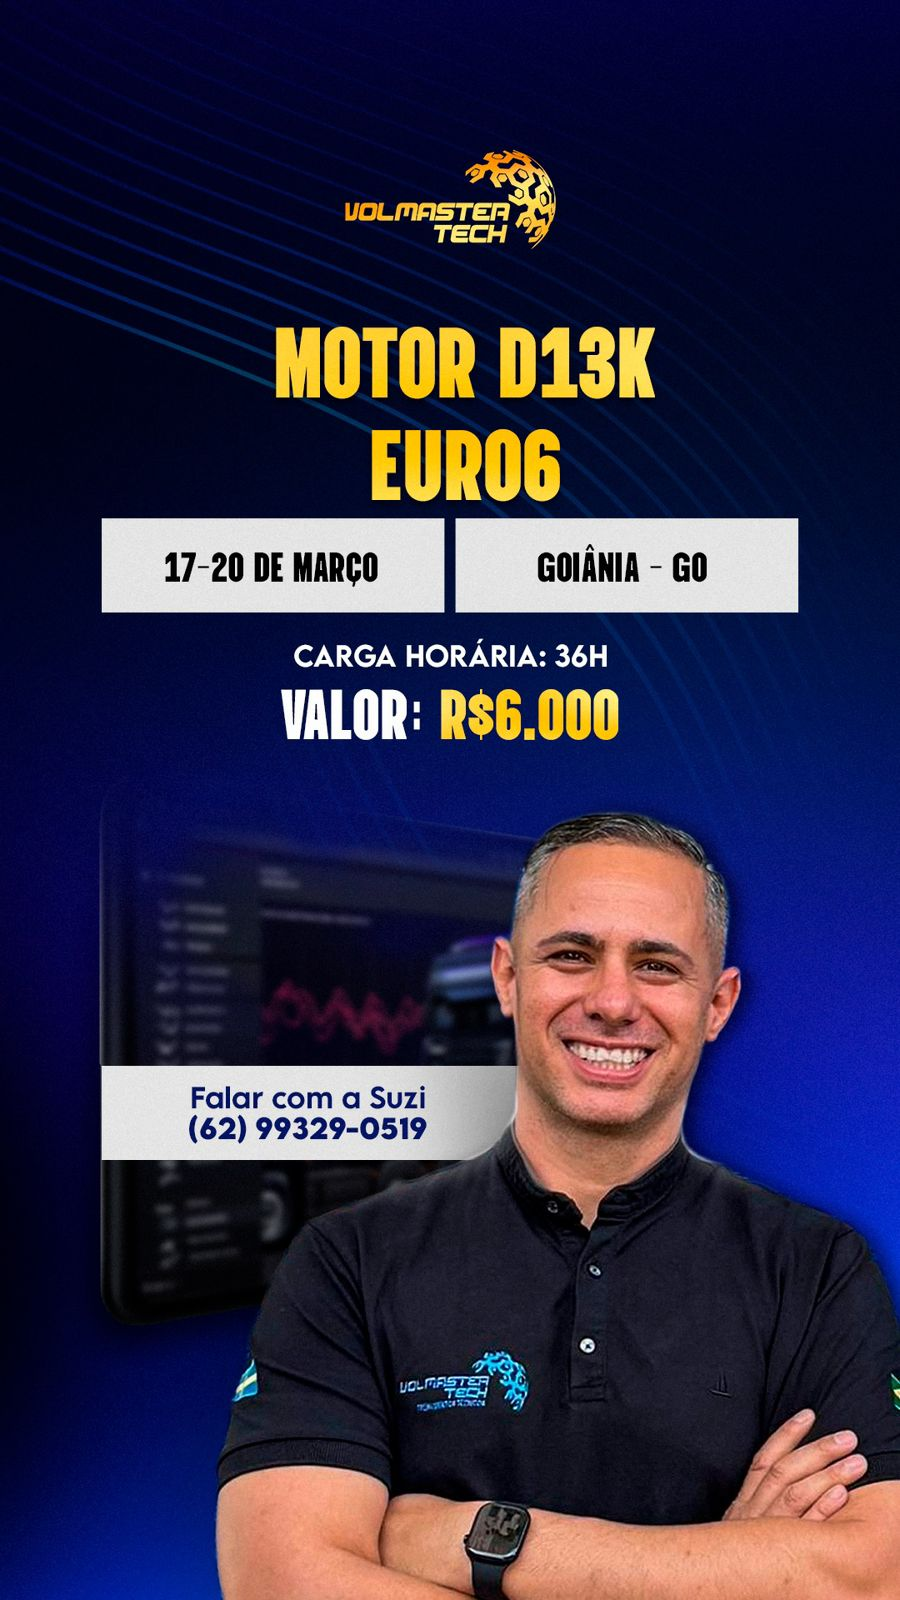
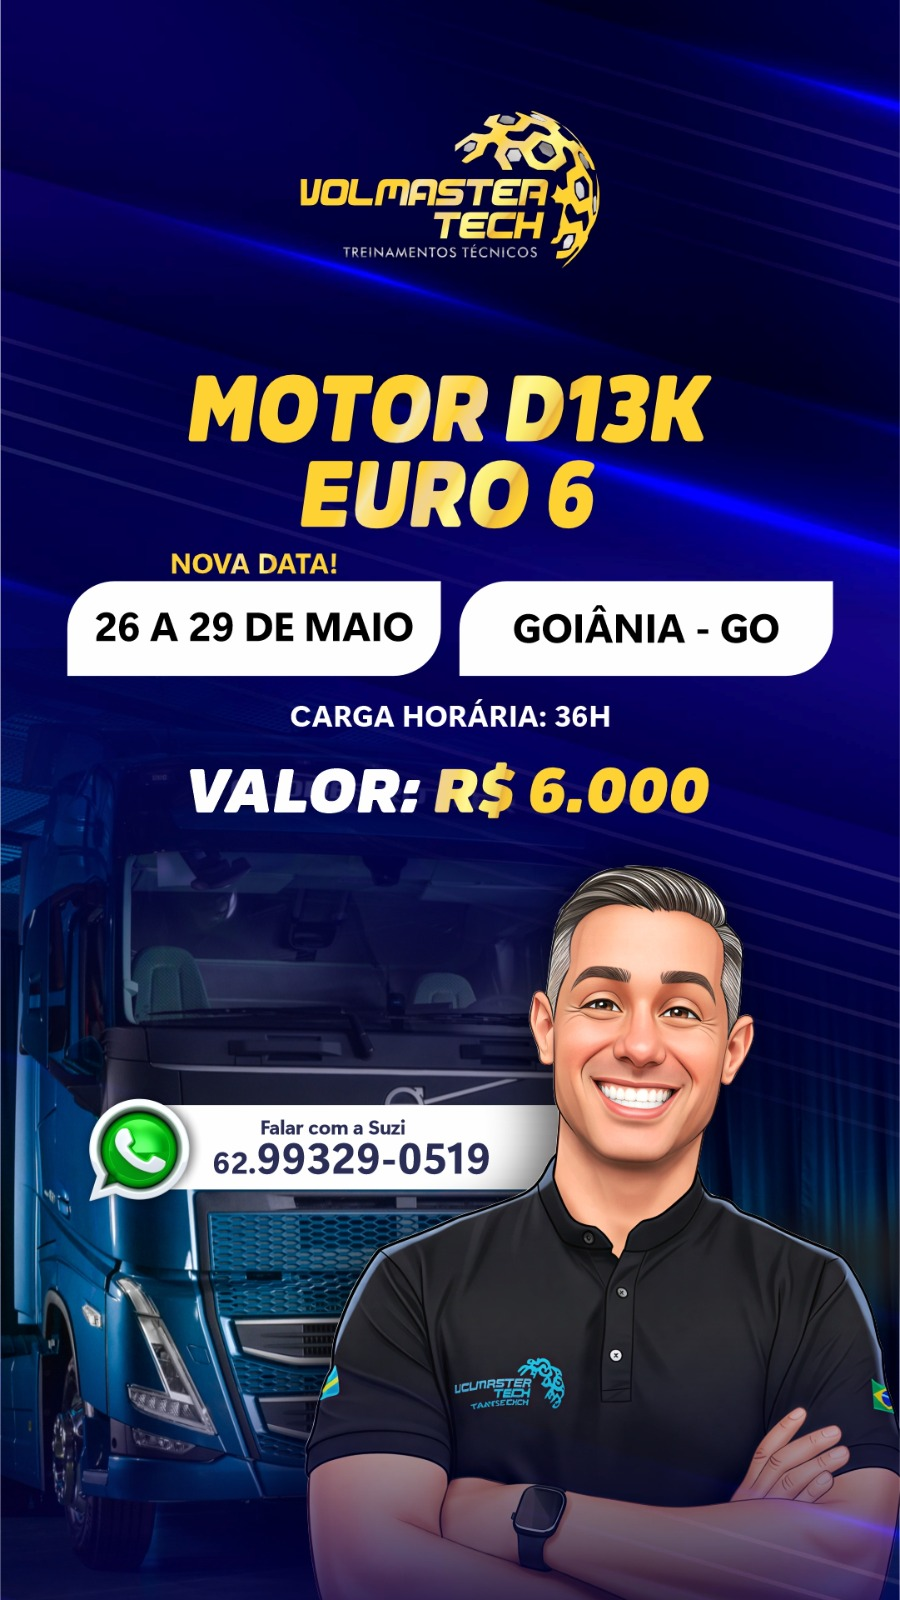
Atualizar data do Motor D13K EURO 6 para 26 a 29 de Maio

diff --git a/produtos.html b/produtos.html
@@ -24,6 +24,23 @@
                 <li><a href="contatos.html">Contatos</a></li>
             </ul>
         </nav>
+        <div class="social-links">
+            <a href="https://www.youtube.com/@volmastertechtreinamentote8457" target="_blank" rel="noopener noreferrer" aria-label="YouTube" class="social-icon">
+                <svg width="24" height="24" viewBox="0 0 24 24" fill="currentColor" xmlns="http://www.w3.org/2000/svg">
+                    <path d="M23.498 6.186a3.016 3.016 0 0 0-2.122-2.136C19.505 3.545 12 3.545 12 3.545s-7.505 0-9.377.505A3.017 3.017 0 0 0 .502 6.186C0 8.07 0 12 0 12s0 3.93.502 5.814a3.016 3.016 0 0 0 2.122 2.136c1.871.505 9.376.505 9.376.505s7.505 0 9.377-.505a3.015 3.015 0 0 0 2.122-2.136C24 15.93 24 12 24 12s0-3.93-.502-5.814zM9.545 15.568V8.432L15.818 12l-6.273 3.568z"/>
+                </svg>
+            </a>
+            <a href="https://www.instagram.com/volmastertech/" target="_blank" rel="noopener noreferrer" aria-label="Instagram" class="social-icon">
+                <svg width="24" height="24" viewBox="0 0 24 24" fill="currentColor" xmlns="http://www.w3.org/2000/svg">
+                    <path d="M12 2.163c3.204 0 3.584.012 4.85.07 3.252.148 4.771 1.691 4.919 4.919.058 1.265.069 1.645.069 4.849 0 3.205-.012 3.584-.069 4.849-.149 3.225-1.664 4.771-4.919 4.919-1.266.058-1.644.07-4.85.07-3.204 0-3.584-.012-4.849-.07-3.26-.149-4.771-1.699-4.919-4.92-.058-1.265-.07-1.644-.07-4.849 0-3.204.013-3.583.07-4.849.149-3.227 1.664-4.771 4.919-4.919 1.266-.057 1.645-.069 4.849-.069zM12 0C8.741 0 8.333.014 7.053.072 2.695.272.273 2.69.073 7.052.014 8.333 0 8.741 0 12c0 3.259.014 3.668.072 4.948.2 4.358 2.618 6.78 6.98 6.98C8.333 23.986 8.741 24 12 24c3.259 0 3.668-.014 4.948-.072 4.354-.2 6.782-2.618 6.979-6.98.059-1.28.073-1.689.073-4.948 0-3.259-.014-3.667-.072-4.947-.196-4.354-2.617-6.78-6.979-6.98C15.668.014 15.259 0 12 0zm0 5.838a6.162 6.162 0 1 0 0 12.324 6.162 6.162 0 0 0 0-12.324zM12 16a4 4 0 1 1 0-8 4 4 0 0 1 0 8zm6.406-11.845a1.44 1.44 0 1 0 0 2.881 1.44 1.44 0 0 0 0-2.881z"/>
+                </svg>
+            </a>
+            <a href="https://www.facebook.com/volmastertech/?locale=pt_BR" target="_blank" rel="noopener noreferrer" aria-label="Facebook" class="social-icon">
+                <svg width="24" height="24" viewBox="0 0 24 24" fill="currentColor" xmlns="http://www.w3.org/2000/svg">
+                    <path d="M24 12.073c0-6.627-5.373-12-12-12s-12 5.373-12 12c0 5.99 4.388 10.954 10.125 11.854v-8.385H7.078v-3.47h3.047V9.43c0-3.007 1.792-4.669 4.533-4.669 1.312 0 2.686.235 2.686.235v2.953H15.83c-1.491 0-1.956.925-1.956 1.874v2.25h3.328l-.532 3.47h-2.796v8.385C19.612 23.027 24 18.062 24 12.073z"/>
+                </svg>
+            </a>
+        </div>
     </header>
 
     <main class="products-container">
@@ -54,7 +71,7 @@
                     <img src="./volmaster/MOTOR D13K EURO 6.jpeg" alt="Motor D13K EURO 6">
                 </div>
                 <div class="product-card-content">
-                    <h3>Motor D13K EURO 6 - 17 a 20 de Março</h3>
+                    <h3>Motor D13K EURO 6 - 26 a 29 de Maio</h3>
                     <p>Motor de alta performance com tecnologia EURO 6.</p>
                     <a href="https://wa.me/556293290519?text=Ol%C3%A1%20Suziane%2C%20tenho%20interesse%20no%20produto%3A%20MOTOR%20D13K%20EURO%206.%20Voc%C3%AA%20pode%20me%20passar%20mais%20informa%C3%A7%C3%B5es%3F"
                         class="btn" target="_blank" style="display:block;text-align:center;margin:32px auto 0;">Saiba

diff --git a/contatos.html b/contatos.html
@@ -24,6 +24,23 @@
                 <li><a href="contatos.html">Contatos</a></li>
             </ul>
         </nav>
+        <div class="social-links">
+            <a href="https://www.youtube.com/@volmastertechtreinamentote8457" target="_blank" rel="noopener noreferrer" aria-label="YouTube" class="social-icon">
+                <svg width="24" height="24" viewBox="0 0 24 24" fill="currentColor" xmlns="http://www.w3.org/2000/svg">
+                    <path d="M23.498 6.186a3.016 3.016 0 0 0-2.122-2.136C19.505 3.545 12 3.545 12 3.545s-7.505 0-9.377.505A3.017 3.017 0 0 0 .502 6.186C0 8.07 0 12 0 12s0 3.93.502 5.814a3.016 3.016 0 0 0 2.122 2.136c1.871.505 9.376.505 9.376.505s7.505 0 9.377-.505a3.015 3.015 0 0 0 2.122-2.136C24 15.93 24 12 24 12s0-3.93-.502-5.814zM9.545 15.568V8.432L15.818 12l-6.273 3.568z"/>
+                </svg>
+            </a>
+            <a href="https://www.instagram.com/volmastertech/" target="_blank" rel="noopener noreferrer" aria-label="Instagram" class="social-icon">
+                <svg width="24" height="24" viewBox="0 0 24 24" fill="currentColor" xmlns="http://www.w3.org/2000/svg">
+                    <path d="M12 2.163c3.204 0 3.584.012 4.85.07 3.252.148 4.771 1.691 4.919 4.919.058 1.265.069 1.645.069 4.849 0 3.205-.012 3.584-.069 4.849-.149 3.225-1.664 4.771-4.919 4.919-1.266.058-1.644.07-4.85.07-3.204 0-3.584-.012-4.849-.07-3.26-.149-4.771-1.699-4.919-4.92-.058-1.265-.07-1.644-.07-4.849 0-3.204.013-3.583.07-4.849.149-3.227 1.664-4.771 4.919-4.919 1.266-.057 1.645-.069 4.849-.069zM12 0C8.741 0 8.333.014 7.053.072 2.695.272.273 2.69.073 7.052.014 8.333 0 8.741 0 12c0 3.259.014 3.668.072 4.948.2 4.358 2.618 6.78 6.98 6.98C8.333 23.986 8.741 24 12 24c3.259 0 3.668-.014 4.948-.072 4.354-.2 6.782-2.618 6.979-6.98.059-1.28.073-1.689.073-4.948 0-3.259-.014-3.667-.072-4.947-.196-4.354-2.617-6.78-6.979-6.98C15.668.014 15.259 0 12 0zm0 5.838a6.162 6.162 0 1 0 0 12.324 6.162 6.162 0 0 0 0-12.324zM12 16a4 4 0 1 1 0-8 4 4 0 0 1 0 8zm6.406-11.845a1.44 1.44 0 1 0 0 2.881 1.44 1.44 0 0 0 0-2.881z"/>
+                </svg>
+            </a>
+            <a href="https://www.facebook.com/volmastertech/?locale=pt_BR" target="_blank" rel="noopener noreferrer" aria-label="Facebook" class="social-icon">
+                <svg width="24" height="24" viewBox="0 0 24 24" fill="currentColor" xmlns="http://www.w3.org/2000/svg">
+                    <path d="M24 12.073c0-6.627-5.373-12-12-12s-12 5.373-12 12c0 5.99 4.388 10.954 10.125 11.854v-8.385H7.078v-3.47h3.047V9.43c0-3.007 1.792-4.669 4.533-4.669 1.312 0 2.686.235 2.686.235v2.953H15.83c-1.491 0-1.956.925-1.956 1.874v2.25h3.328l-.532 3.47h-2.796v8.385C19.612 23.027 24 18.062 24 12.073z"/>
+                </svg>
+            </a>
+        </div>
     </header>
 
     <main class="contact-container">

diff --git a/index.html b/index.html
@@ -74,7 +74,7 @@
                 </div>
                 <div class="content">
                     <p class="product-tag">Motor Volvo</p>
-                    <p class="product-name">Motor D13K EURO 6 - 17 a 20 de Março</p>
+                    <p class="product-name">Motor D13K EURO 6 - 26 a 29 de Maio</p>
                     <p class="product-description">Motor de alta performance com tecnologia EURO 6.</p>
                     <a href="https://wa.me/556293290519?text=Olá%20Suziane%2C%20tenho%20interesse%20no%20curso%3A%20Motor%20D13K%20EURO%206" target="_blank" class="btn-curso">Entre em Contato</a>
                     </div>
